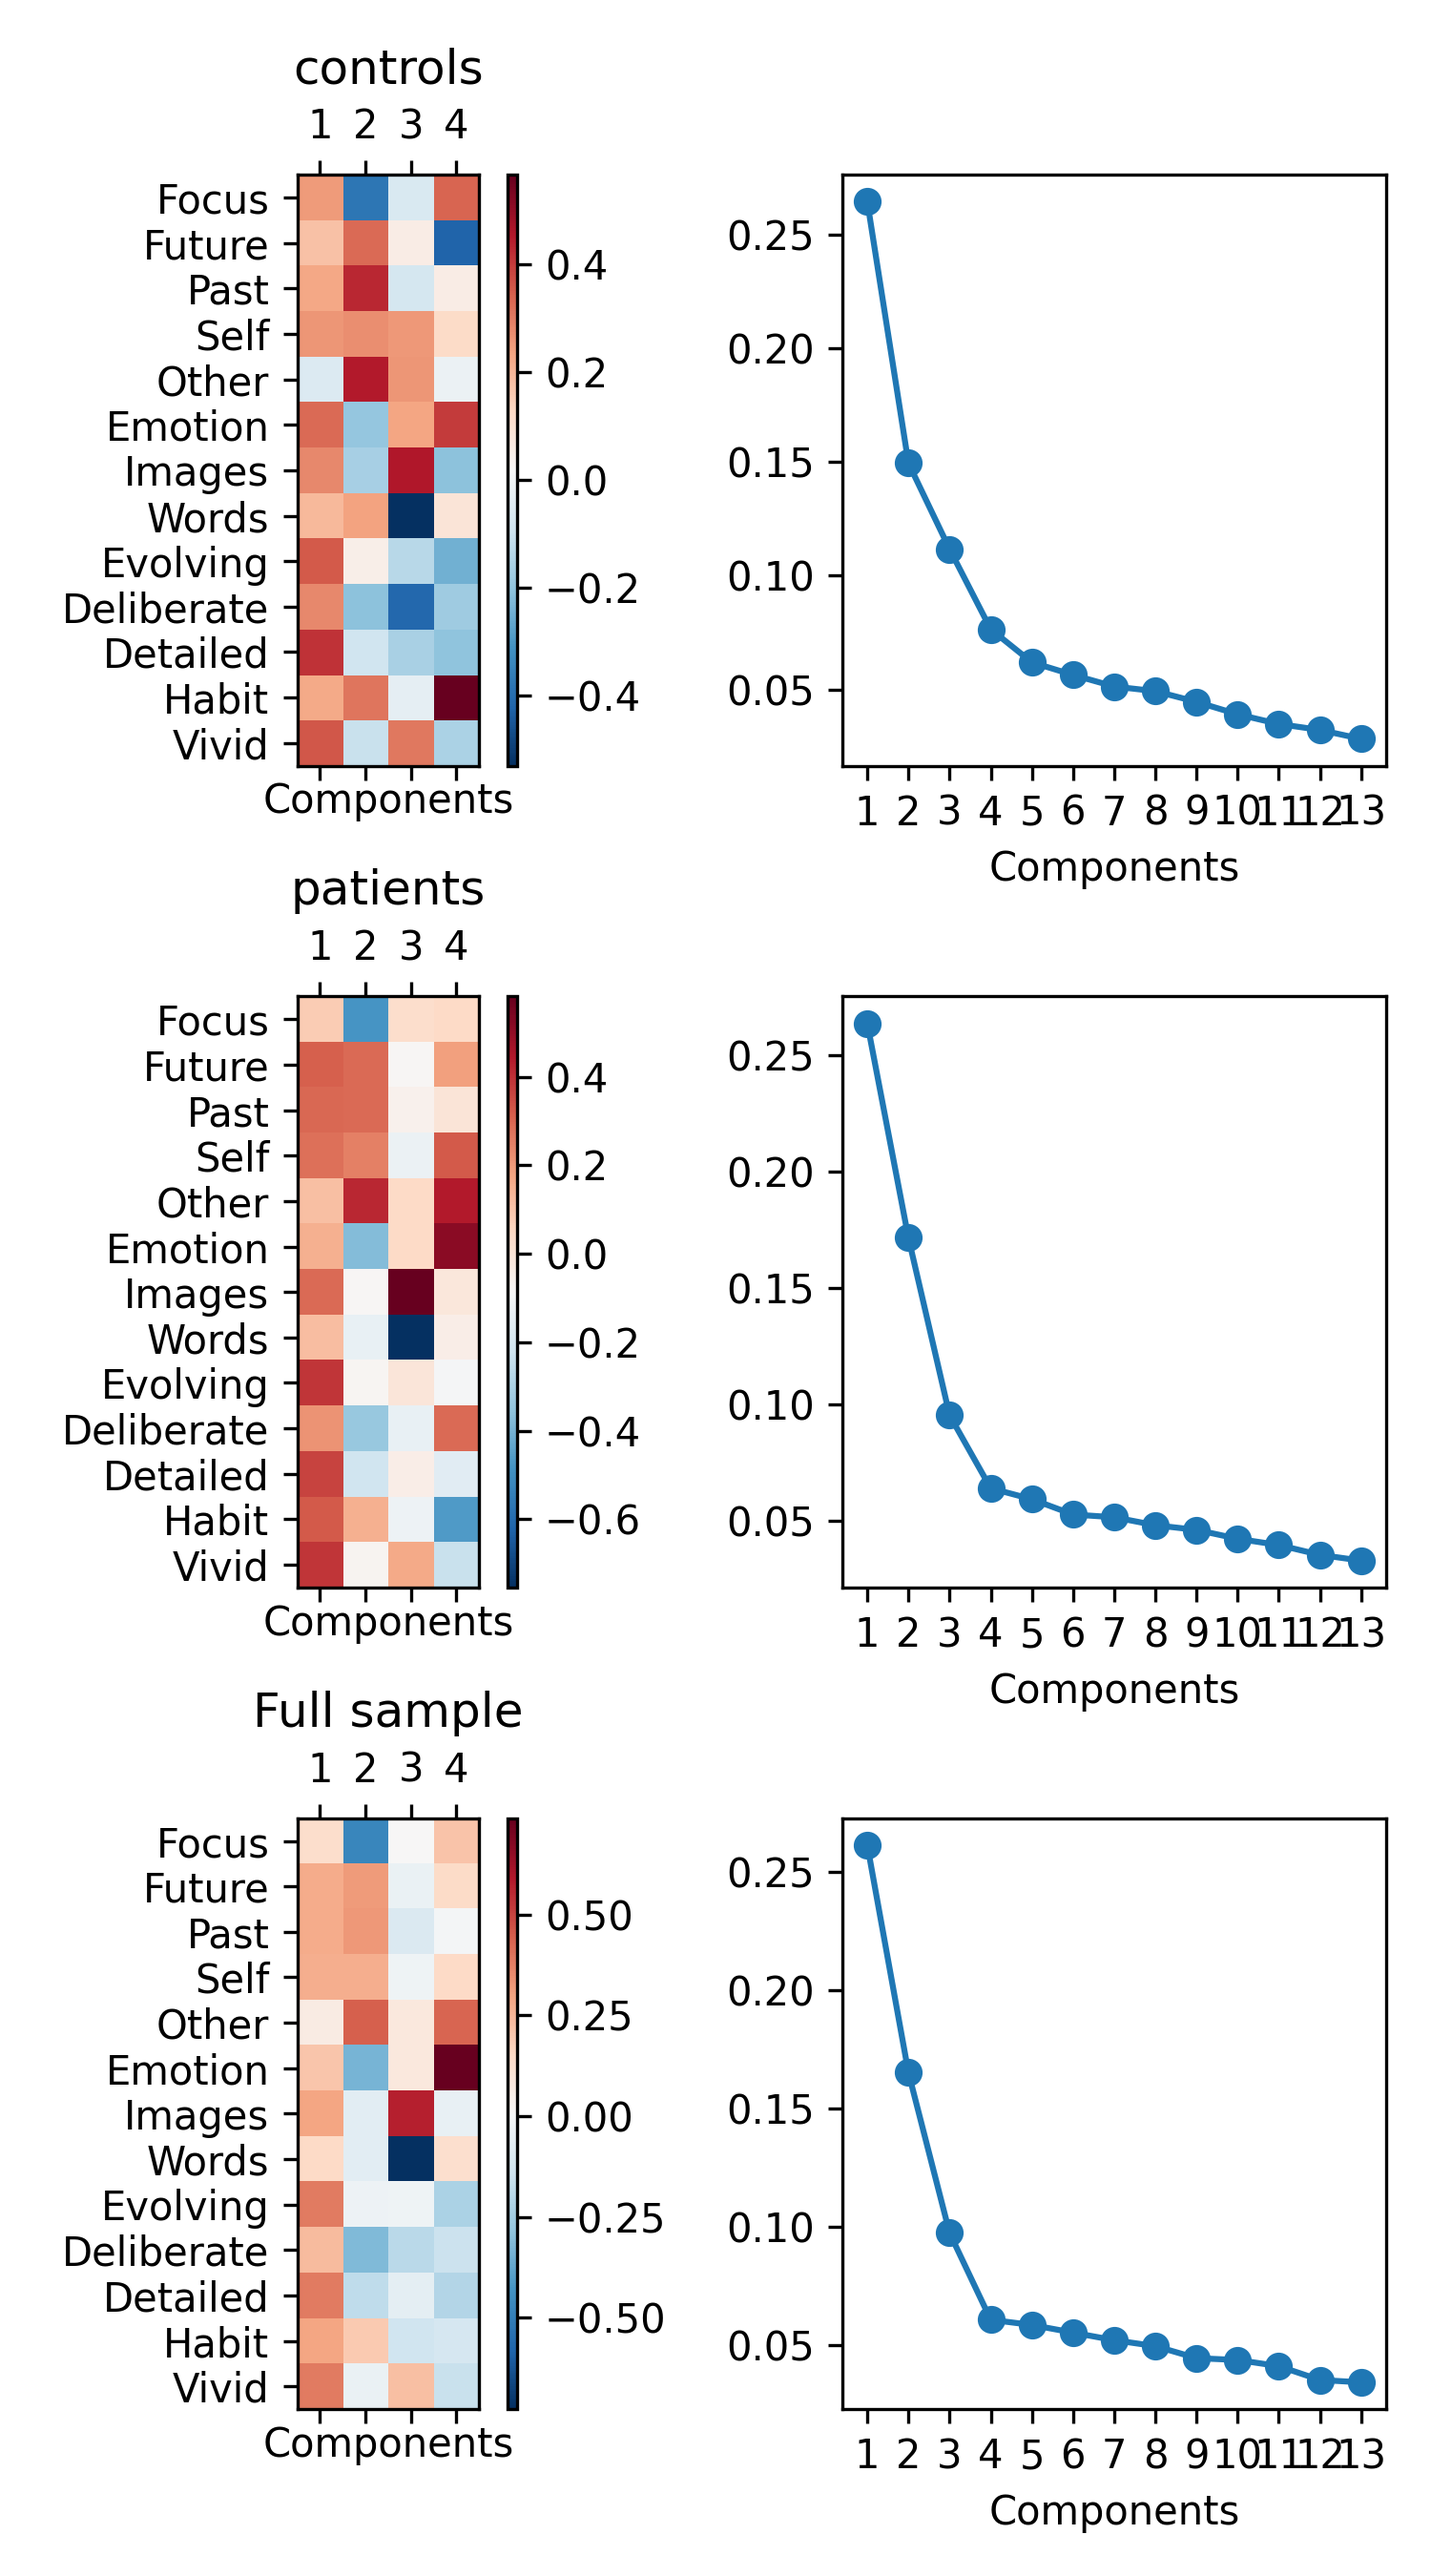
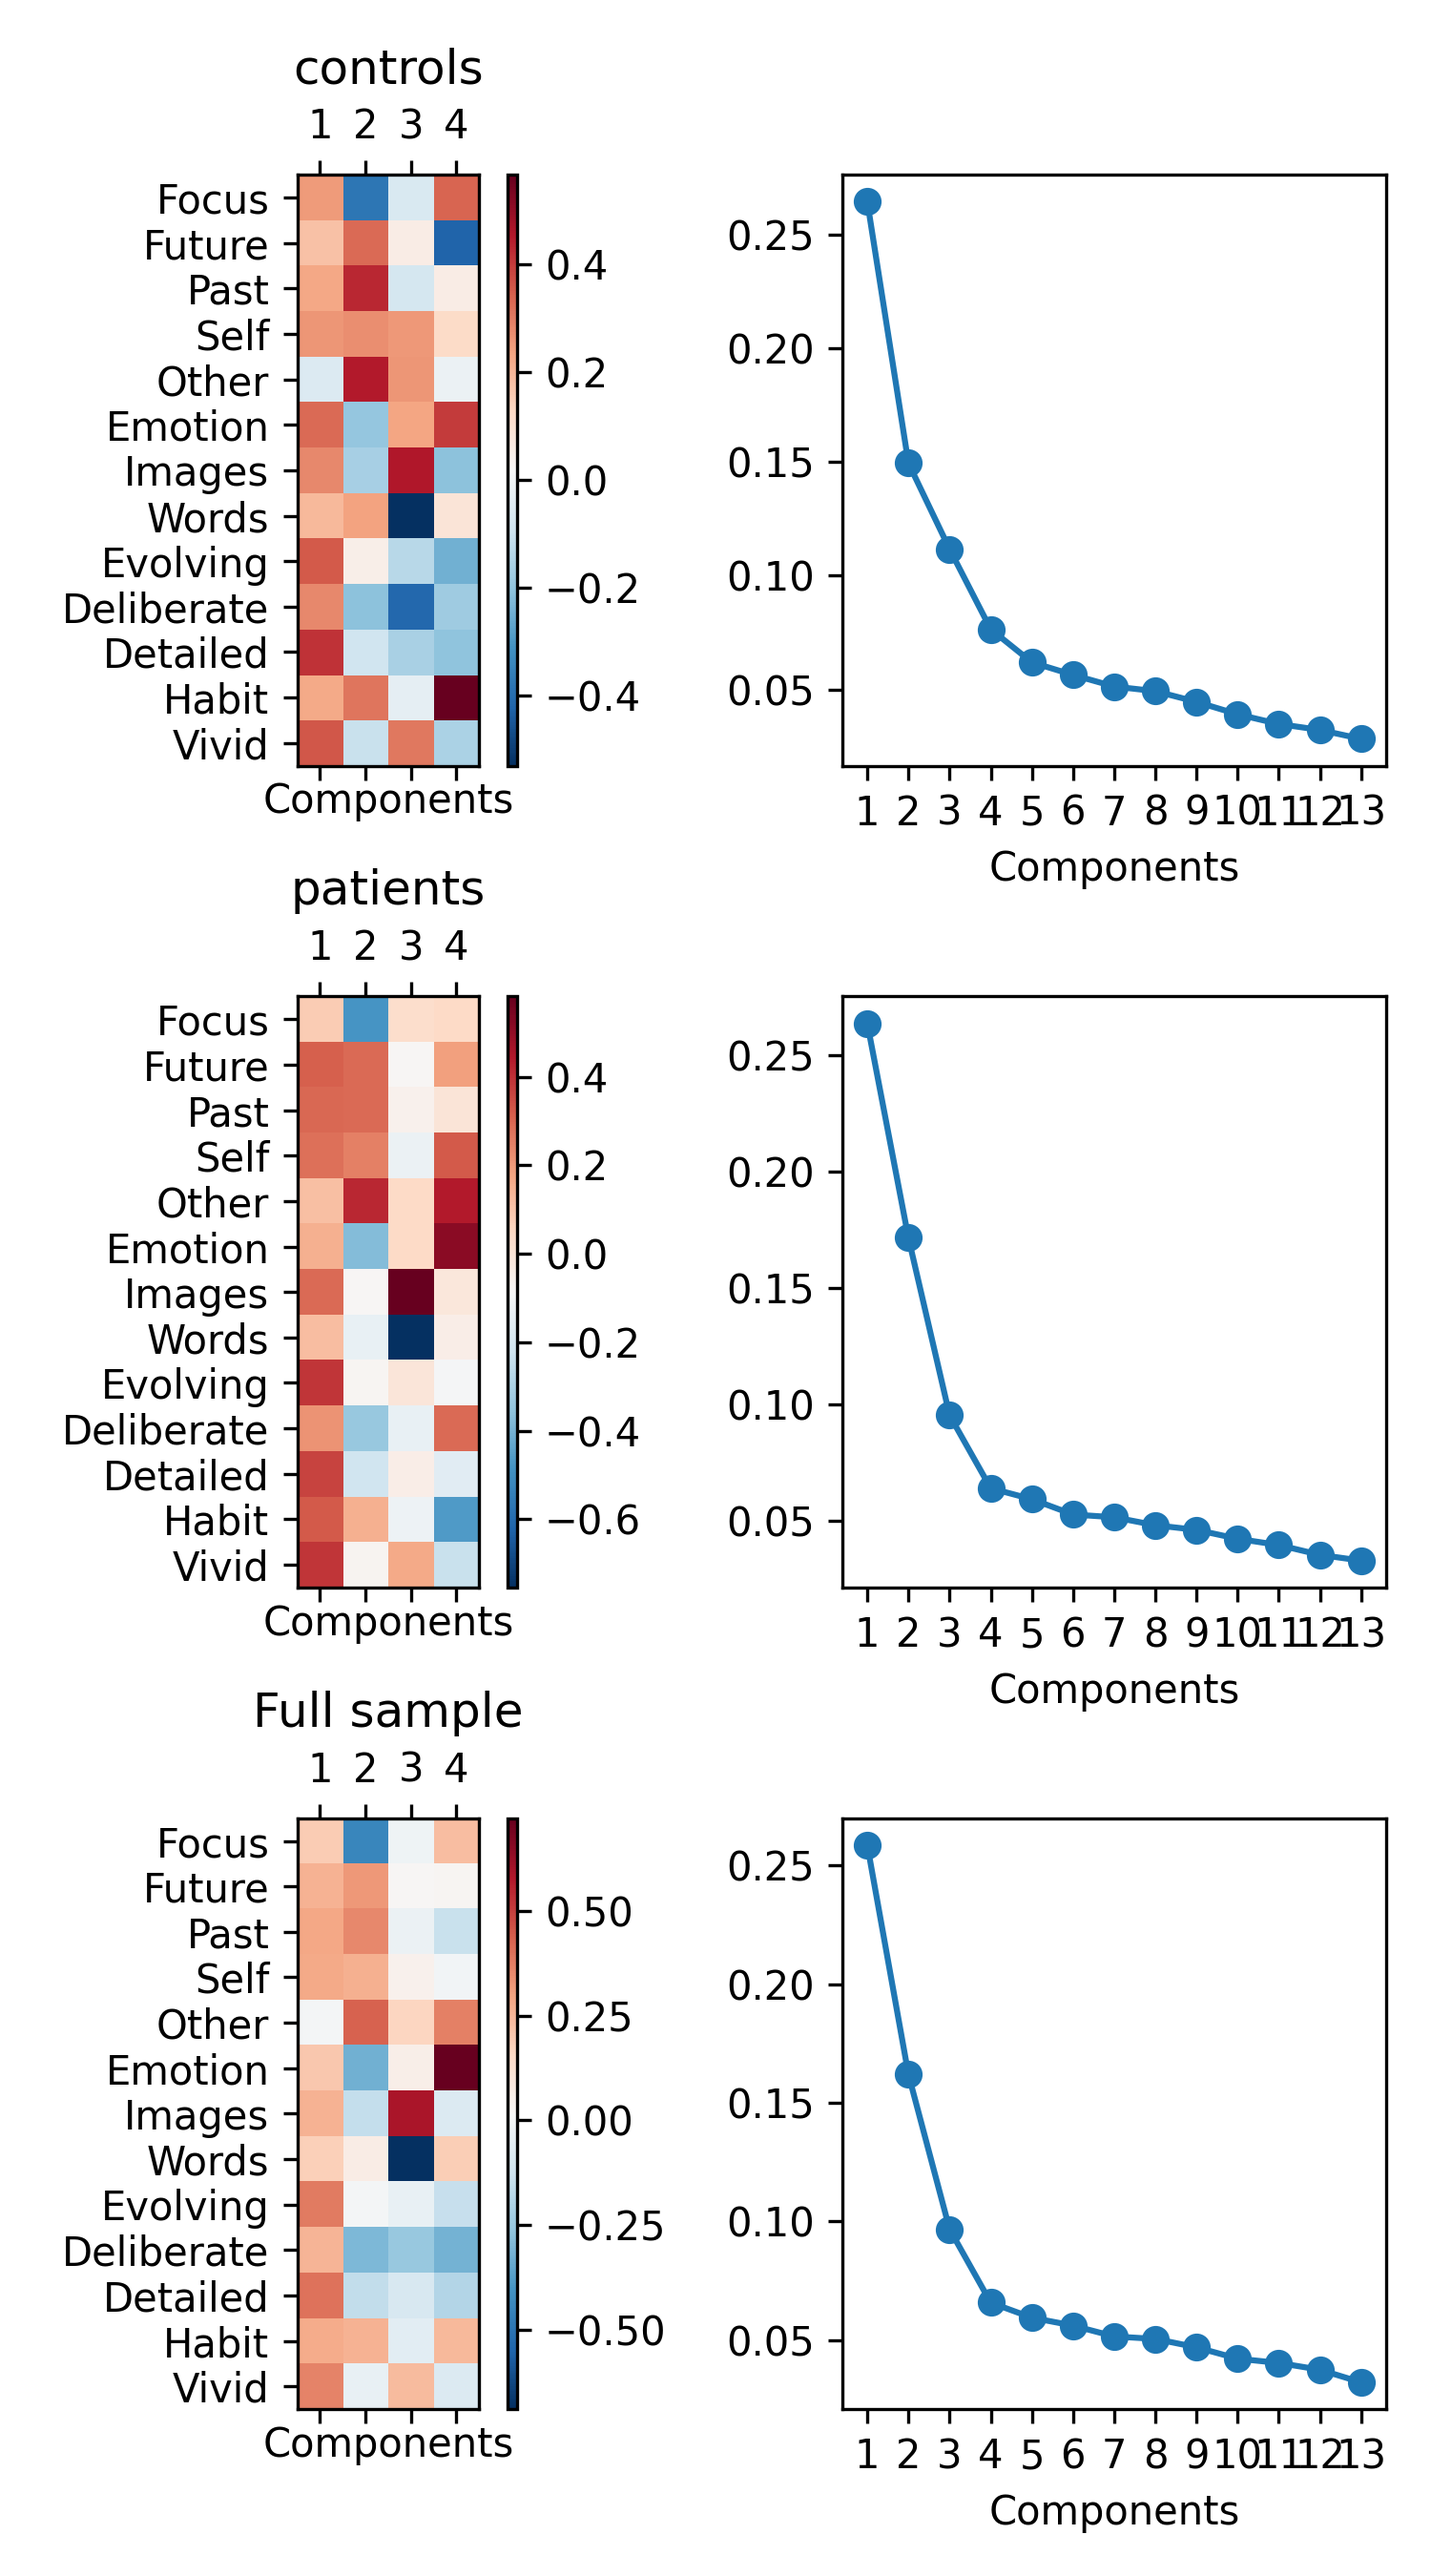
baseline session only PCA

diff --git a/bin/basic_pca.py b/bin/basic_pca.py
@@ -16,6 +16,8 @@ results_dir = Path("results/")
 
 # load data
 probes = pd.read_csv(data_dir / "task-nbackmindwandering_probes.tsv", sep="\t")
+baseline = probes["ses"] == "baseline"
+probes_forPCA = probes[baseline]
 mask = probes['participant_id'].str.contains(r'CON', na=True)
 controls = probes[mask]
 asd = probes[~mask]
@@ -50,7 +52,7 @@ fig, axes = plt.subplots(nrows=3, ncols=2,
 pc_patterns = {}
 pc_scores = []
 # PCA on full dataset - see if there's a PC to separate two groups
-z_probes = zscore(probes[probe_names].values)
+z_probes = zscore(probes_forPCA[probe_names].values)
 pca = PCA()
 res = pca.fit(z_probes)
 scree = res.explained_variance_ratio_
@@ -61,7 +63,8 @@ save = probes[['probe_index', 'participant_id',
 save["rt"] = probes['stimEnd'] - probes['stimStart']
 
 # project
-scores = pd.DataFrame(z_probes.dot(selected), index=probes.index,
+full_probes = zscore(probes[probe_names].values)
+scores = pd.DataFrame(full_probes.dot(selected), index=probes.index,
     columns=[f"full_factor_{x}" for x  in range(1, 5)])
 
 pc_patterns["Full sample"] = selected
@@ -85,7 +88,7 @@ for i, (name, df) in enumerate(zip(["controls", "patients"],
         selected *= [-1, 1, -1, -1]
 
     # project on all probes regardless of group
-    scores = pd.DataFrame(z_probes.dot(selected), index=probes.index,
+    scores = pd.DataFrame(full_probes.dot(selected), index=probes.index,
         columns=[f"{name}_factor_{x}" for x  in range(1, 5)])
 
     pc_patterns[name] = selected

diff --git a/bin/stats.py b/bin/stats.py
@@ -1,3 +1,10 @@
+import pandas as pd
+from pathlib import Path
+
+
+data = pd.read_csv(Path("results/task-nback_summary.tsv"),
+    sep="\t")
+
 # how similar are control's thought to ASD's, vice versa
 
 # for PCA on full sample, is there a component that separates control from patients
